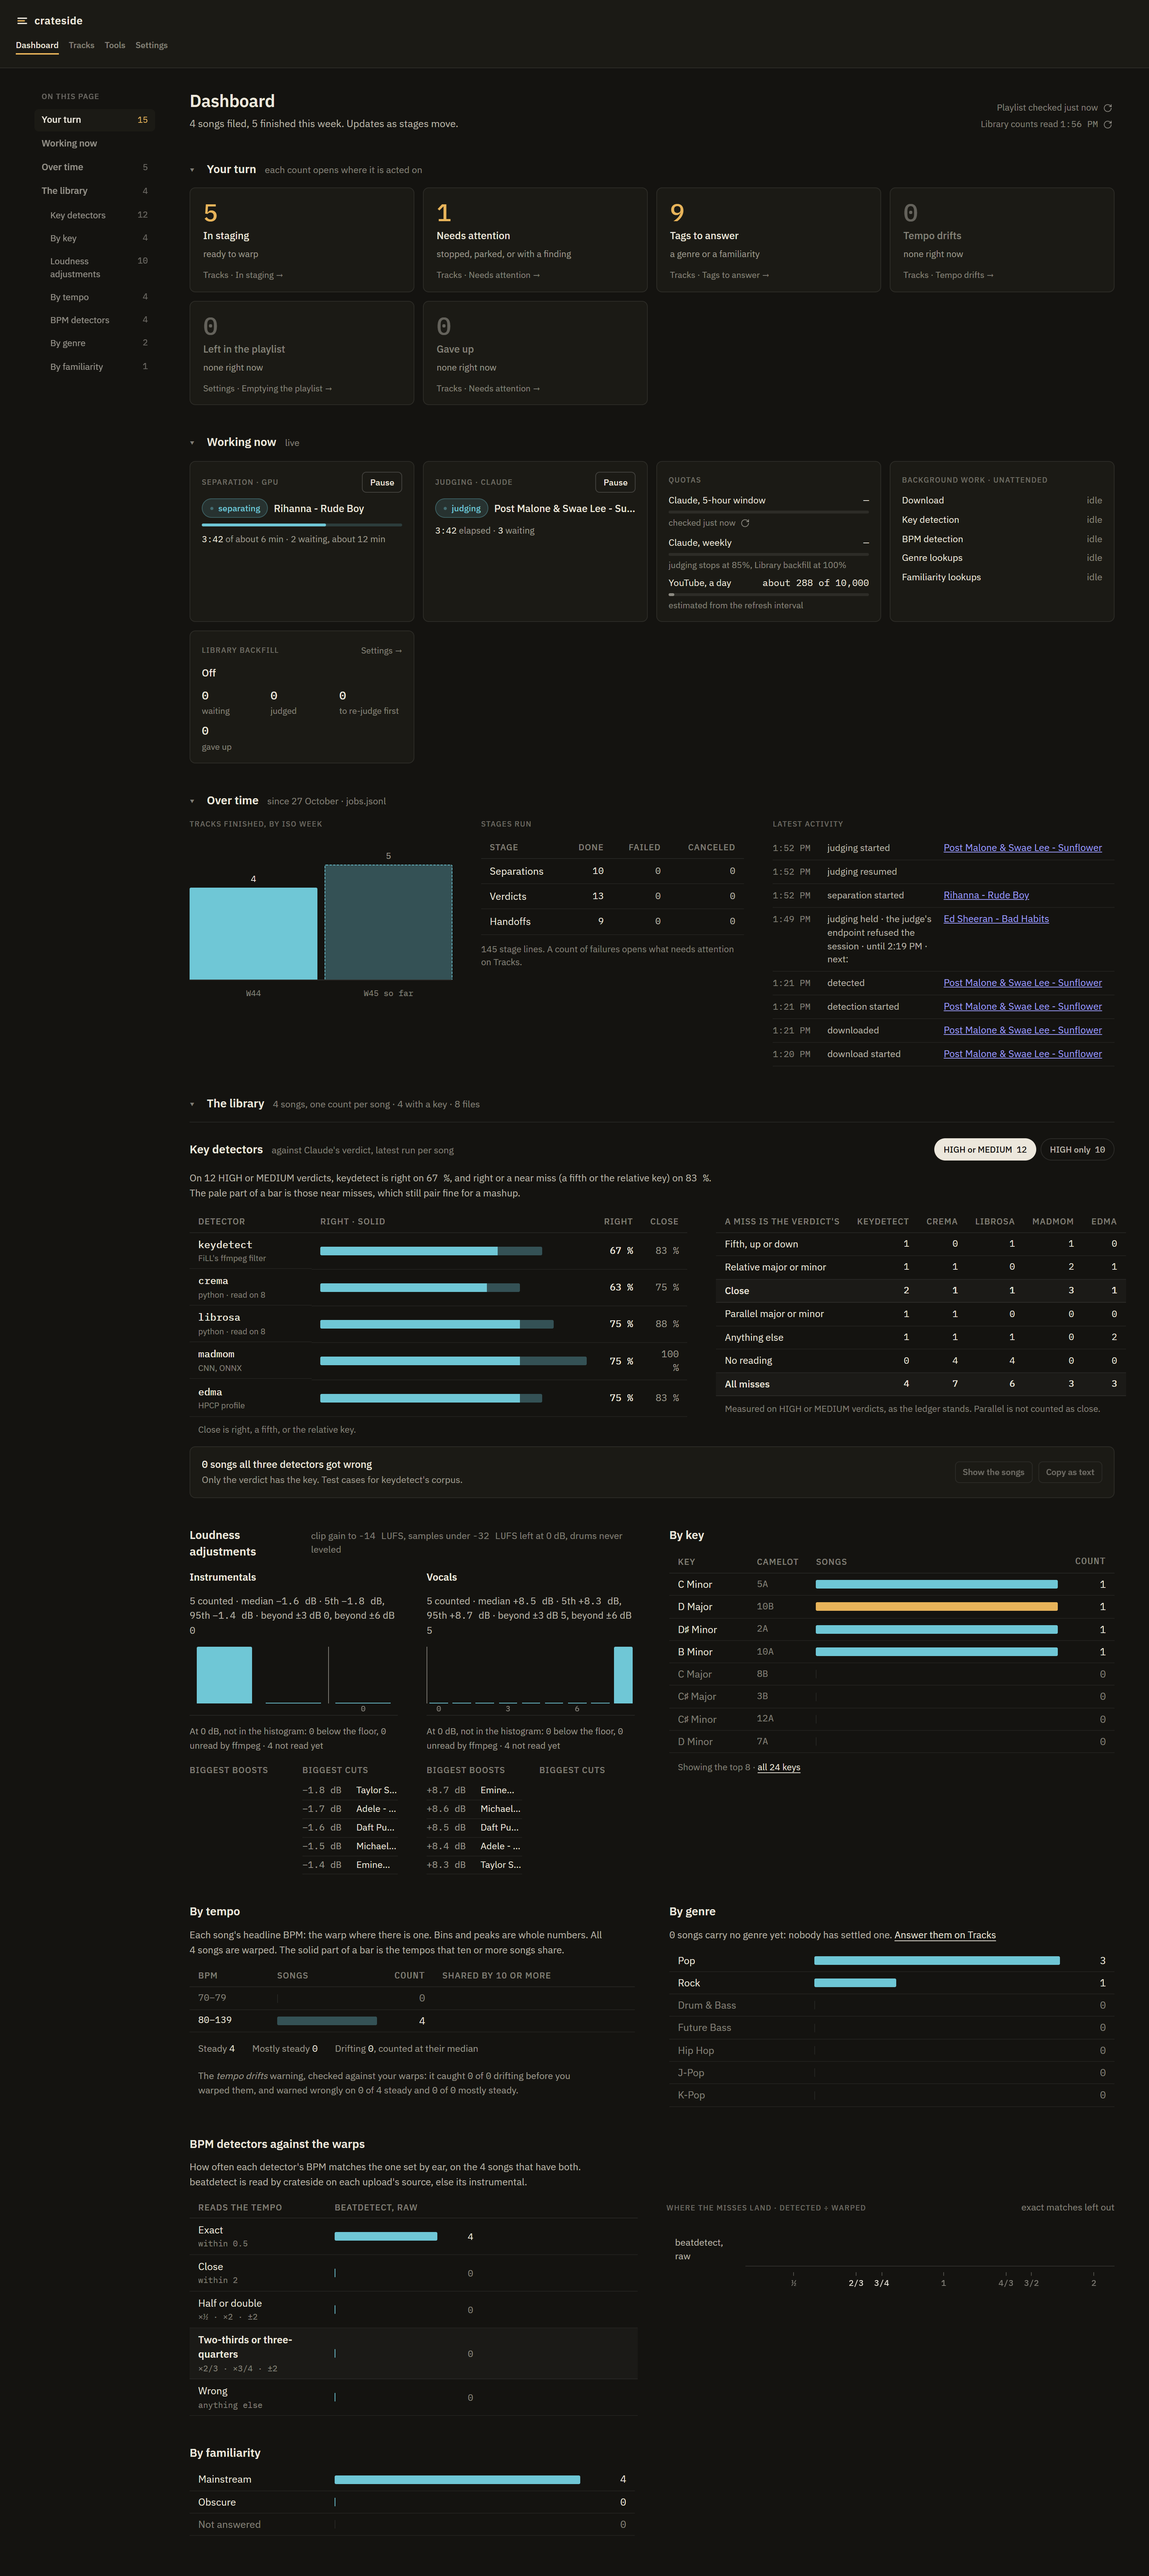
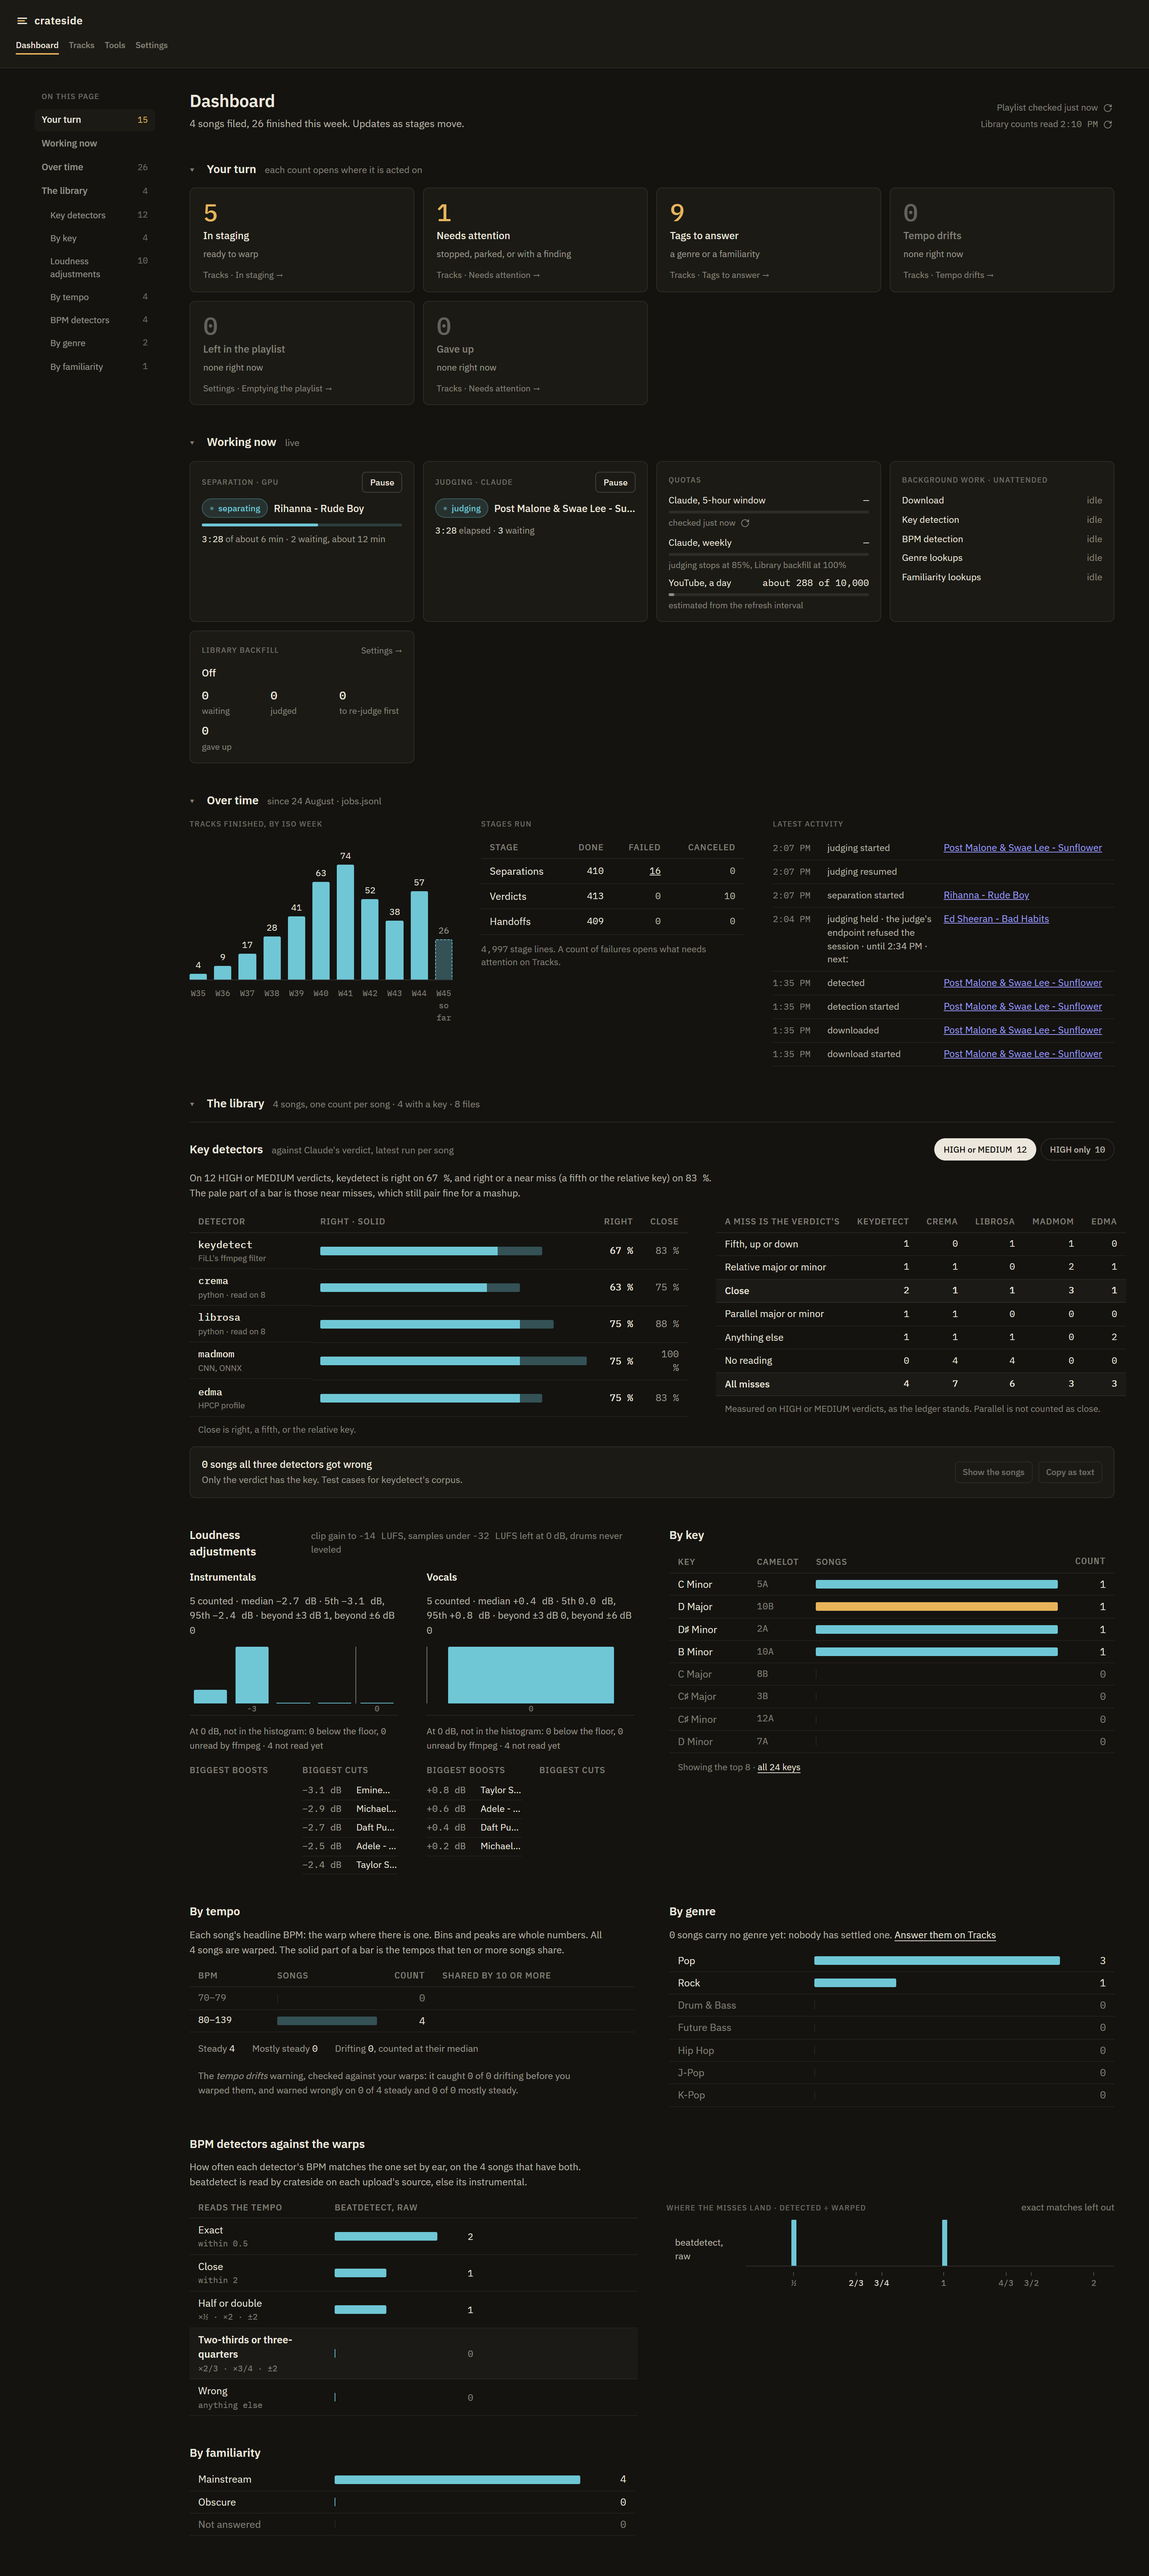
Demo: eleven weeks of finished-track history, varied loudness and beat reads (ADR 0074)

diff --git a/demo/Crateside.Demo/DemoJobs.cs b/demo/Crateside.Demo/DemoJobs.cs
@@ -1,3 +1,4 @@
+using System.Globalization;
 using Crateside.Core.Orchestration.Jobs;
 using Humanizer;
 
@@ -23,6 +24,109 @@ internal sealed record DemoStep(
 /// <summary>When each stage of each made-up track ran, so a track at a given stage has exactly the history that leads to it.</summary>
 internal static class DemoJobs
 {
+    /// <summary>Tracks finished per ISO week, oldest first, ending in the current week: a ramp, a peak, a dip and a rebound.</summary>
+    private static readonly int[] WeeklyFinished = [4, 9, 17, 28, 41, 63, 74, 52, 38, 57, 26];
+
+    /// <summary>
+    /// Finished tracks from earlier weeks, with synthetic IDs the library knows nothing of, so only
+    /// the Dashboard's history reads them. The demo tracks already finished count towards their weeks.
+    /// </summary>
+    public static IEnumerable<DemoStep> History(IReadOnlyList<DemoStep> demo, DateTimeOffset now)
+    {
+        var thisWeek = MondayOf(now);
+        var already = demo.Where(step =>
+                step is { Stage: JobStage.Tagging, Status: JobStatus.Succeeded }
+            )
+            .Select(step => MondayOf(step.At))
+            .CountBy(monday => monday)
+            .ToDictionary();
+        var number = 0;
+
+        for (var i = 0; i < WeeklyFinished.Length; i++)
+        {
+            var monday = thisWeek.AddDays(7 * (i - (WeeklyFinished.Length - 1)));
+            var start = new DateTimeOffset(monday, TimeZoneInfo.Local.GetUtcOffset(monday));
+            var end =
+                i == WeeklyFinished.Length - 1 ? now - TimeSpan.FromHours(2) : start.AddDays(7);
+            var span = end - start;
+            var count = Math.Max(0, WeeklyFinished[i] - already.GetValueOrDefault(monday));
+
+            for (var j = 0; j < count; j++)
+            {
+                number++;
+
+                // Evenly spread, nudged by a fixed figure so no two weeks line up.
+                var jitter = number * 7919 % 100 / 100.0;
+                var tagged = start + span * ((j + jitter) / count);
+
+                foreach (var step in Finished($"DemoHistory{number:D3}", tagged, number))
+                    yield return step;
+            }
+        }
+    }
+
+    private static DateTime MondayOf(DateTimeOffset at)
+    {
+        var local = at.ToLocalTime().DateTime;
+
+        return ISOWeek.ToDateTime(
+            ISOWeek.GetYear(local),
+            ISOWeek.GetWeekOfYear(local),
+            DayOfWeek.Monday
+        );
+    }
+
+    private static IEnumerable<DemoStep> Finished(string id, DateTimeOffset tagged, int number)
+    {
+        var at = tagged - TimeSpan.FromMinutes(40);
+
+        DemoStep Step(JobStage stage, JobStatus status, TimeSpan after, string? error = null)
+        {
+            at += after;
+
+            return new DemoStep(id, at, stage, status, Error: error);
+        }
+
+        yield return Step(JobStage.Download, JobStatus.Running, TimeSpan.Zero);
+        yield return Step(JobStage.Download, JobStatus.Succeeded, TimeSpan.FromSeconds(24));
+        yield return Step(JobStage.Evidence, JobStatus.Running, TimeSpan.FromSeconds(1));
+        yield return Step(JobStage.Evidence, JobStatus.Succeeded, TimeSpan.FromSeconds(7));
+        yield return Step(JobStage.Verdict, JobStatus.Running, TimeSpan.FromMinutes(20));
+
+        // A canceled judging is put back in line, and a failed separation is run again.
+        if (number % 40 is 7)
+        {
+            yield return Step(
+                JobStage.Verdict,
+                JobStatus.Canceled,
+                TimeSpan.FromMinutes(1),
+                "put back in line by hand"
+            );
+            yield return Step(JobStage.Verdict, JobStatus.Running, TimeSpan.FromMinutes(2));
+        }
+
+        yield return Step(JobStage.Verdict, JobStatus.Succeeded, TimeSpan.FromMinutes(2));
+        yield return Step(JobStage.Separation, JobStatus.Running, TimeSpan.FromSeconds(1));
+
+        if (number % 25 is 3)
+        {
+            yield return Step(
+                JobStage.Separation,
+                JobStatus.Failed,
+                TimeSpan.FromMinutes(2),
+                "the separator ran out of memory"
+            );
+            yield return Step(JobStage.Separation, JobStatus.Running, TimeSpan.FromMinutes(1));
+        }
+
+        yield return Step(JobStage.Separation, JobStatus.Succeeded, TimeSpan.FromMinutes(6));
+        yield return Step(JobStage.Handoff, JobStatus.Running, TimeSpan.FromSeconds(1));
+        yield return Step(JobStage.Handoff, JobStatus.Succeeded, TimeSpan.FromSeconds(56));
+        yield return Step(JobStage.Tagging, JobStatus.Running, TimeSpan.FromSeconds(1));
+
+        yield return new DemoStep(id, tagged, JobStage.Tagging, JobStatus.Succeeded);
+    }
+
     public static IEnumerable<DemoStep> Timeline(
         IReadOnlyList<DemoTrack> tracks,
         DateTimeOffset now

diff --git a/demo/Crateside.Demo/DemoLibrary.cs b/demo/Crateside.Demo/DemoLibrary.cs
@@ -182,7 +182,15 @@ internal sealed class DemoLibrary
         var notes = new StageNotes(_paths, _clock);
         var actions = new ActionLog(_paths, _clock);
 
-        foreach (var step in DemoJobs.Timeline(DemoCast.All, _now).OrderBy(step => step.At))
+        var demo = DemoJobs.Timeline(DemoCast.All, _now).ToList();
+
+        // First in the file, so Latest activity, which reads the end of it, shows the demo tracks.
+        foreach (
+            var step in DemoJobs
+                .History(demo, _now)
+                .OrderBy(step => step.At)
+                .Concat(demo.OrderBy(step => step.At))
+        )
         {
             _clock.Set(step.At);
 
@@ -216,7 +224,9 @@ internal sealed class DemoLibrary
     private void WriteWarp(DemoTrack track, DemoStem stem, FileInfo file, DateTimeOffset landed)
     {
         var lufs =
-            stem is DemoStem.Instrumental ? -9.5 - Spread(track, 0) : -19.5 - Spread(track, 1);
+            stem is DemoStem.Instrumental
+                ? -16.5 + Spread(track, 0) * 1.8
+                : -21 + Spread(track, 1) * 2.2;
         var sidecar = $"{file.FullName}.asd";
 
         DemoAudio.Sidecar(track, stem, Math.Pow(10, (-14 - lufs) / 20), file.Length).Write(sidecar);
@@ -233,7 +243,7 @@ internal sealed class DemoLibrary
                 null,
                 new BeatReading
                 {
-                    Bpm = track.Bpm,
+                    Bpm = ReadBpm(track),
                     Confidence = 0.9,
                     TempoSpread = 0.02,
                     BeatOffsetMs = DemoAudio.Lead * 1000,
@@ -245,6 +255,15 @@ internal sealed class DemoLibrary
                 }
             );
     }
+
+    /// <summary>What beatdetect read: mostly the warp's tempo, with a half-time read and a near miss so the detector bars are not one column.</summary>
+    private static double ReadBpm(DemoTrack track) =>
+        track.VideoId switch
+        {
+            "DemoTrack02" => track.Bpm / 2,
+            "DemoTrack03" => track.Bpm + 1.4,
+            _ => track.Bpm,
+        };
 
     /// <summary>A steady figure from the track, so loudness differs from song to song without a random draw.</summary>
     private static double Spread(DemoTrack track, int salt) =>

diff --git a/docs/adr/0074-a-data-root-moves-all-of-crateside-state-and-a-demo-library-fills-it.md b/docs/adr/0074-a-data-root-moves-all-of-crateside-state-and-a-demo-library-fills-it.md
@@ -31,6 +31,12 @@ that machine holds that day, real song names included.
   (TagLib reads its sample rate; nothing decodes it). Every other stem is an empty file, its tags
   seeded in the stem tag cache. Jobs for separation and judging are written as running, which with
   workers off stay running.
+  Behind them sit about 400 finished tracks over eleven ISO weeks (a ramp, a peak near 74, a dip, a
+  rebound), under synthetic IDs `DemoHistoryNNN` that only the Dashboard's job history reads: Tracks
+  lists from the playlist, staging and the library, not from jobs. Their weeks end in the current
+  one, and a few canceled judgings and retried separations give the stage totals some failures.
+  Loudness gains and beatdetect's reads are varied across the four library songs so those panels
+  have both boosts and cuts and a half-time read.
 - **The verdicts are real.** `demo/Crateside.Demo/verdicts.json` holds what crateside recorded for
   thirteen of those songs (key, confidence, sections, sources, candidates, the detectors' report),
   kept so the shots show honest evidence. Upload IDs, paths and anything of the maintainer's own
